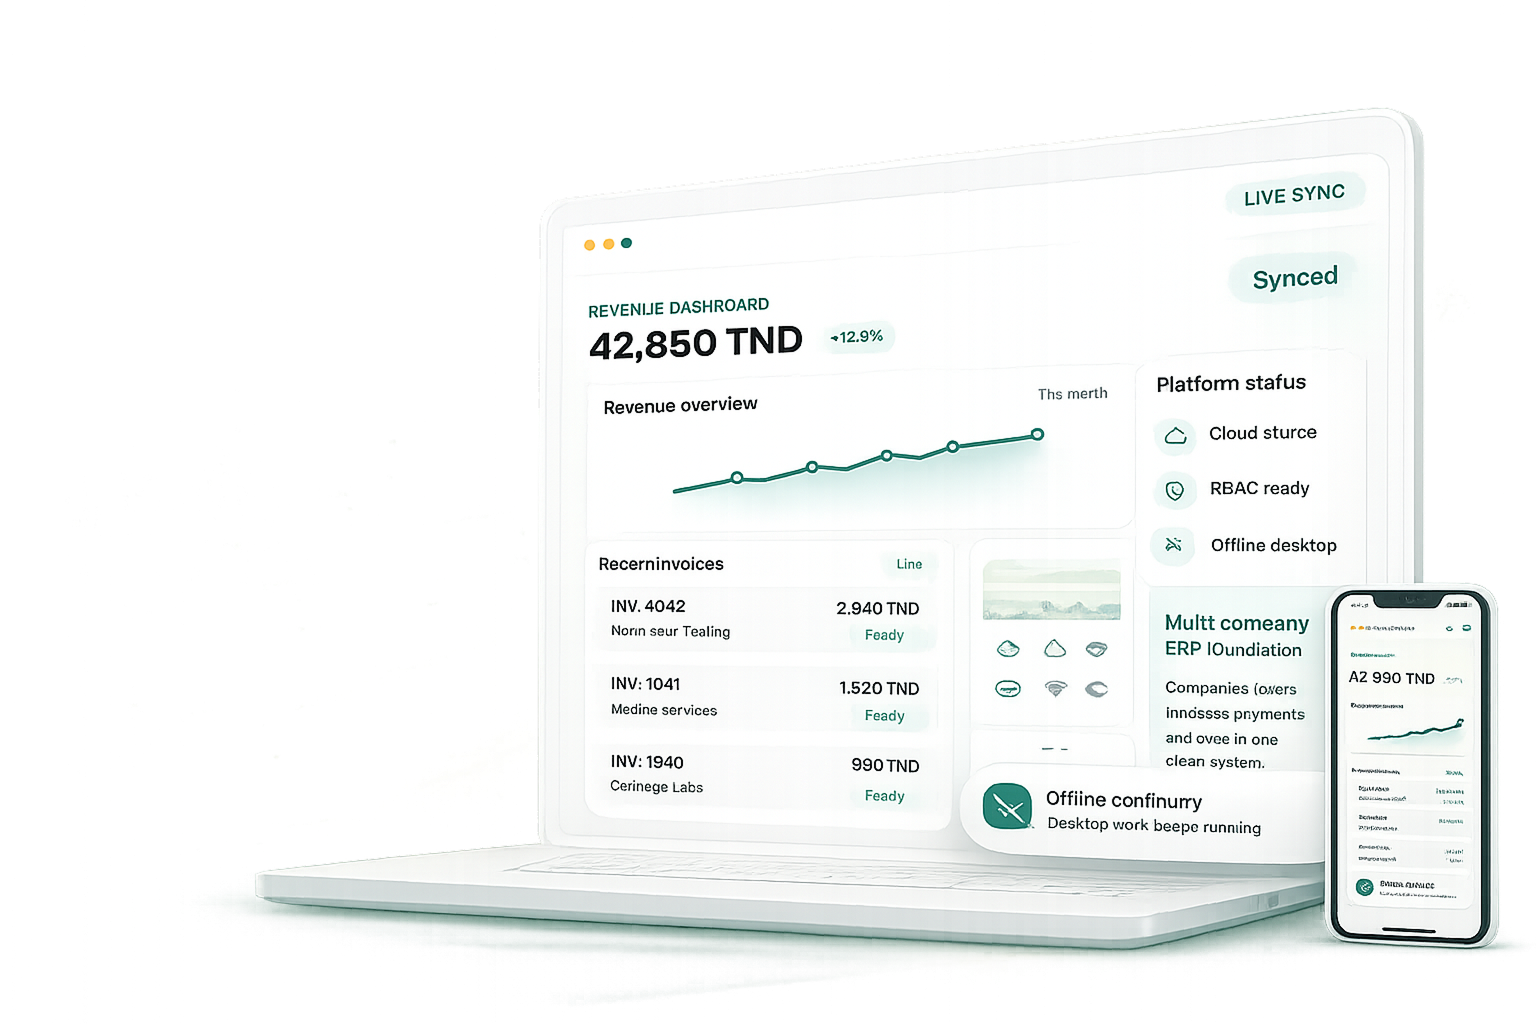
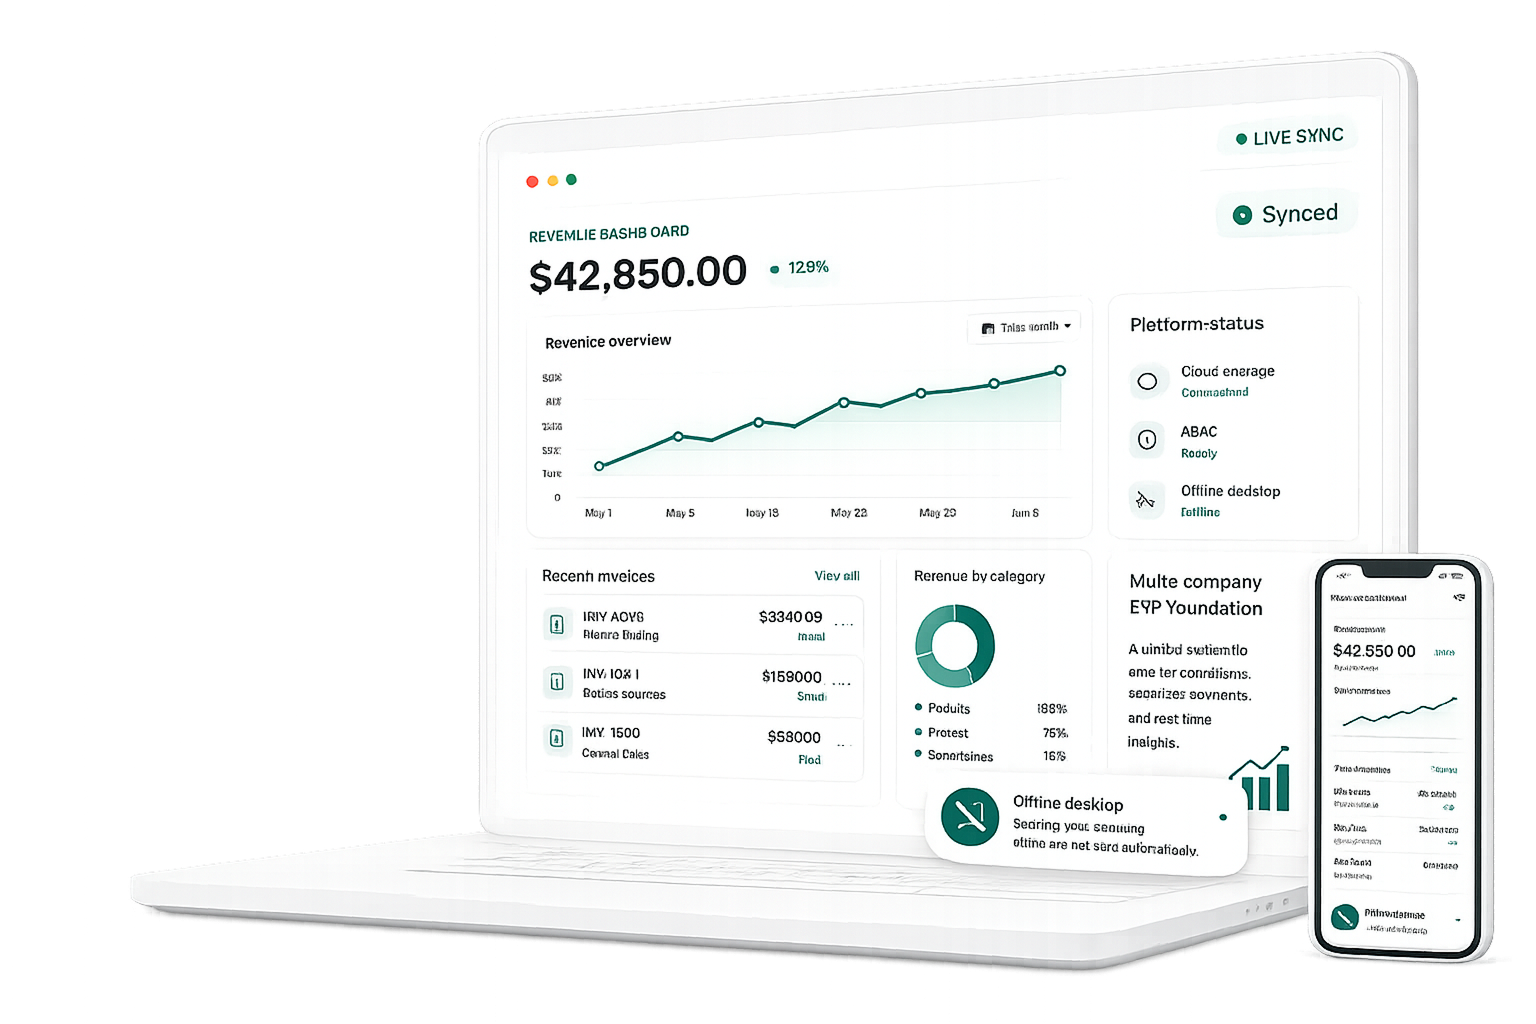
update

diff --git a/src/app/(public)/contact/page.tsx b/src/app/(public)/contact/page.tsx
@@ -60,7 +60,7 @@ const quickInfo = [
   {
     icon: MapPin,
     label: "Region",
-    value: "Tunisia & International",
+    value: "International",
   },
   {
     icon: Clock3,

diff --git a/src/components/home/workflow-section.tsx b/src/components/home/workflow-section.tsx
@@ -36,7 +36,7 @@ export function WorkflowSection() {
             Operating model
           </div>
 
-          <h2 className="mt-5 max-w-145 text-[42px] font-extrabold leading-[1.08] tracking-tight text-zinc-950 lg:text-[54px]">
+          <h2 className="mt-5 max-w-145 text-[42px] font-extrabold leading-[1.08] tracking-tight text-zinc-950 lg:text-[40px]">
             A simple path from setup to synchronized operations.
           </h2>
 

diff --git a/src/components/pricing/PricingCta.tsx b/src/components/pricing/PricingCta.tsx
@@ -45,7 +45,7 @@ export function PricingCta() {
 
         <div className="relative z-10 min-h-107.5 px-7 py-12 sm:px-12 sm:py-14 lg:px-16 lg:py-16">
           <div className="relative z-20 max-w-140">
-            <h2 className="max-w-135 text-[40px] font-extrabold leading-[1.05] tracking-[-0.055em] sm:text-[52px] lg:text-[54px]">
+            <h2 className="max-w-135 text-[40px] font-extrabold leading-[1.05] tracking-[-0.055em] sm:text-[52px] lg:text-[40px]">
               Ready to simplify your business?
             </h2>
 